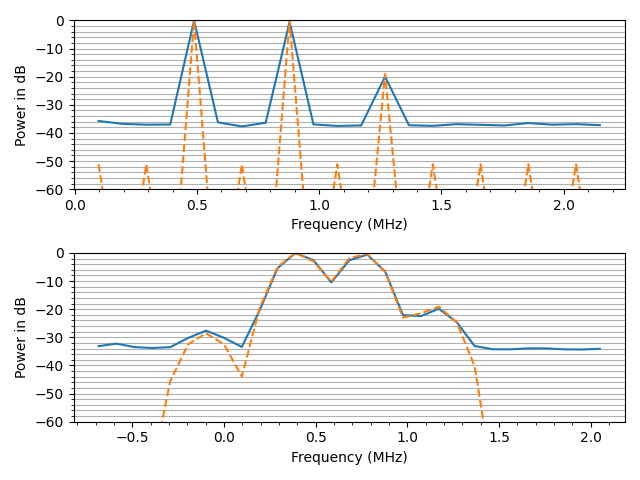
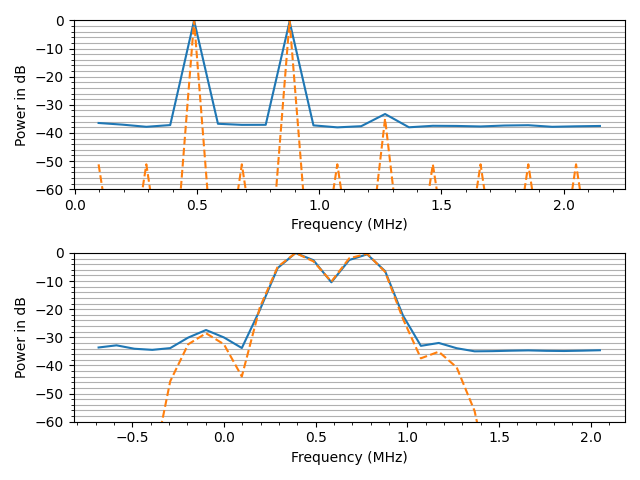
Reduced 3rd tone

diff --git a/channelizer/examples/three_tone_ota_test.rs b/channelizer/examples/three_tone_ota_test.rs
@@ -51,7 +51,7 @@ fn main() {
     let fc2: f32 = 1.25e6;
     let fc3: f32 = 0.85e6;
 
-    let a2_db: f32 = -9.5;
+    let a2_db: f32 = -17.5;
     let mut amplitude: f32 = 0.8;
     let fs: f32 = 5e6;
     let rx_fs: f32 = 100e6;
